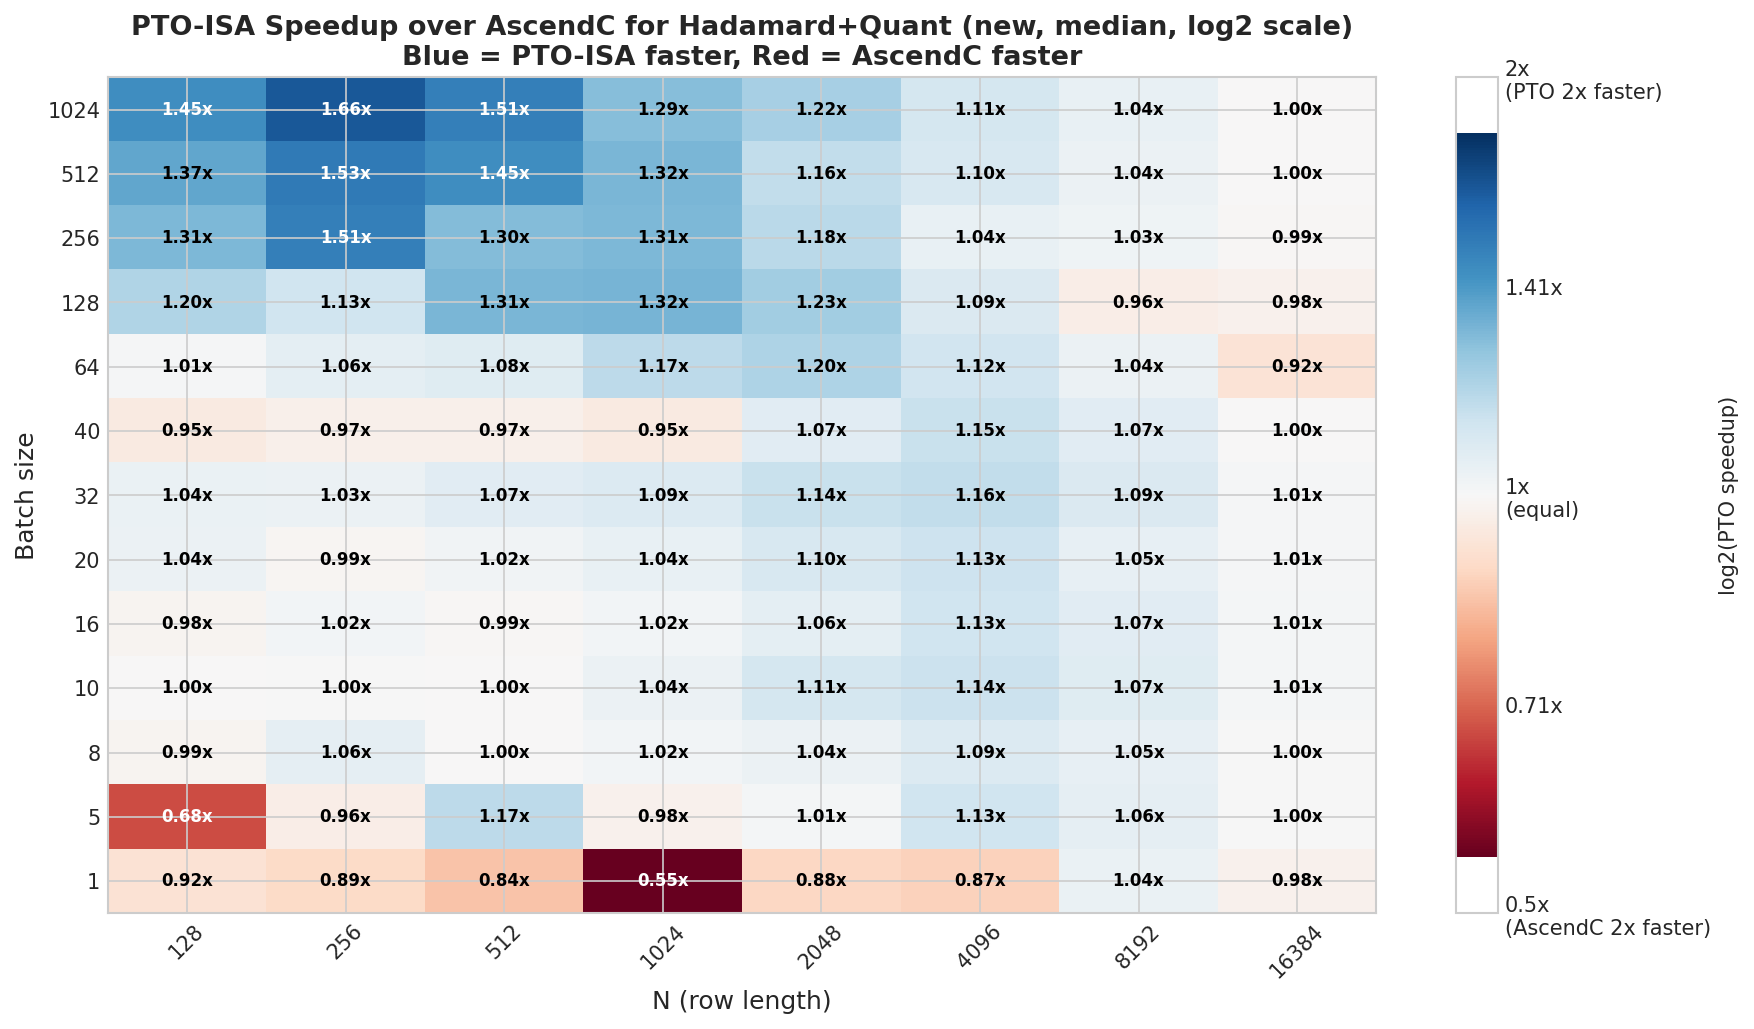
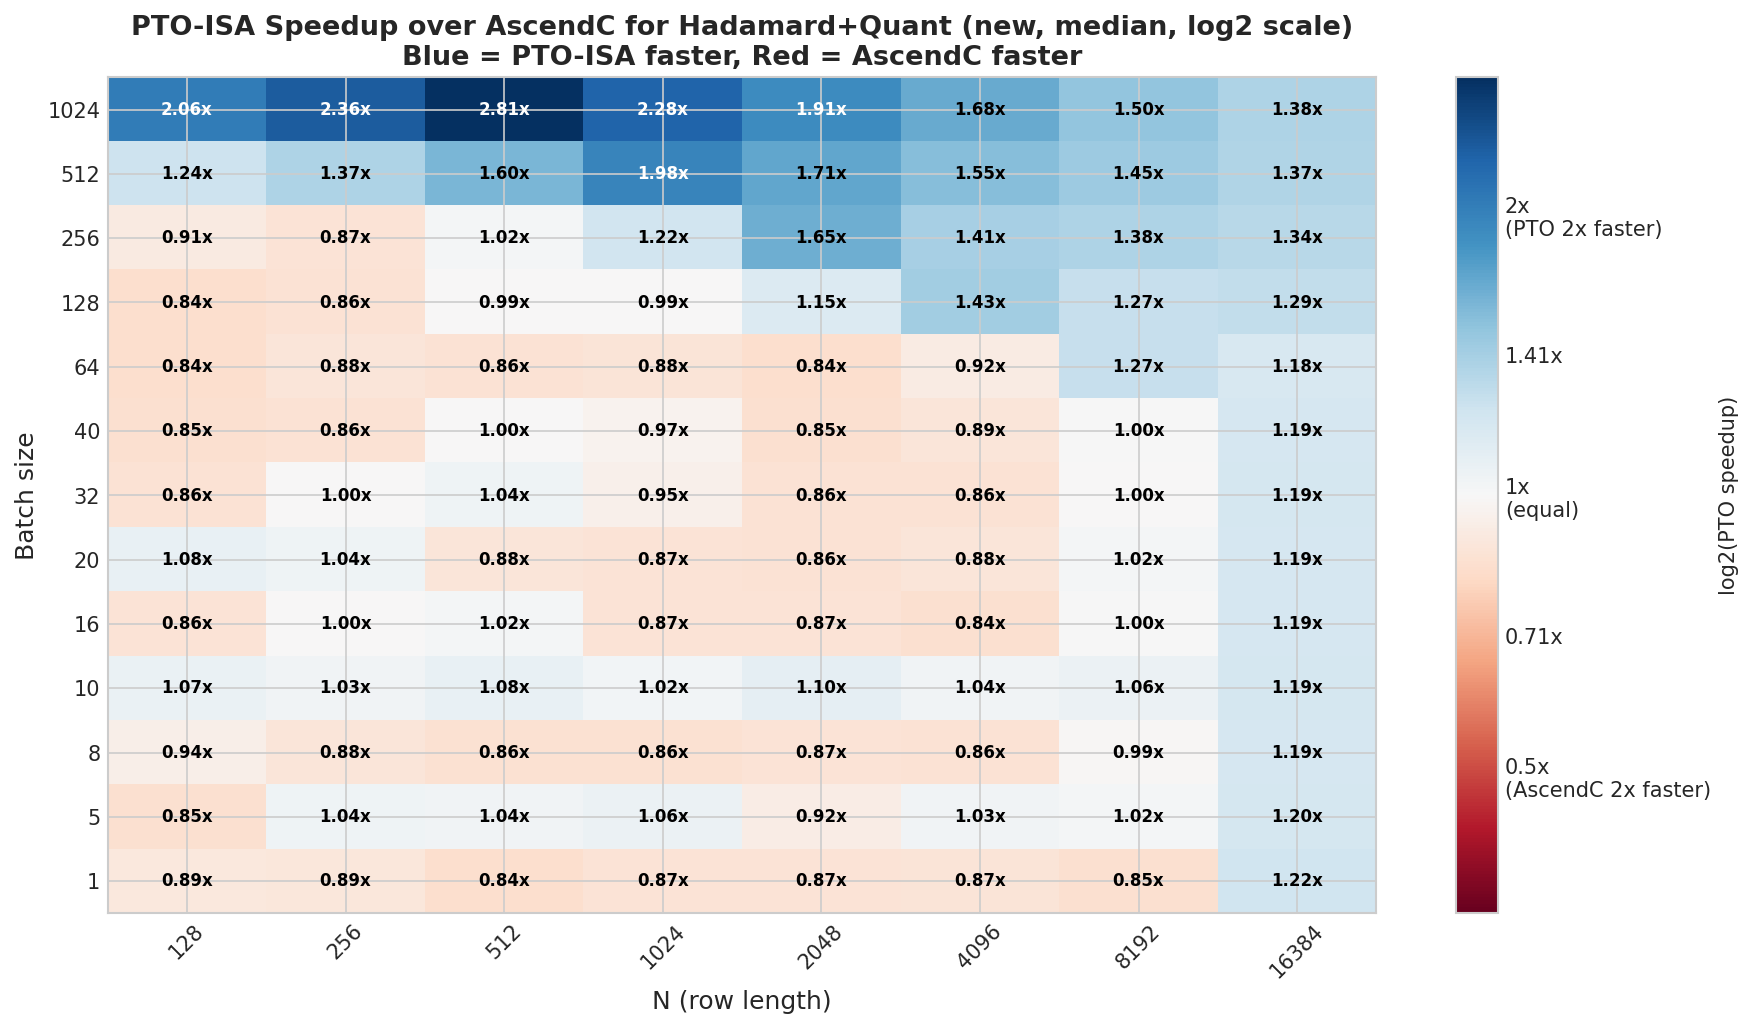
Add new heatmap plots and update README for Hadamard kernel performance

diff --git a/fast_hadamard/int8_quant/README.md b/fast_hadamard/int8_quant/README.md
@@ -35,6 +35,8 @@ Median PTO-ISA speedup over AscendC for the fused Hadamard + INT8 quantization k
 
 ---
 
+---
+
 ### `hadamard_quant_speedup_vs_separate_bd20.png`
 
 ![Fused PTO Speedup over Separate PTO (BLOCK_DIM=20)](hadamard_quant_speedup_vs_separate_bd20.png)
@@ -93,3 +95,30 @@ median over trials.
   N values, suggesting AscendC is marginally better tuned there.
 - The standalone quantize step does not benefit meaningfully from PTO-ISA on its own;
   the speedup from the fused kernel comes from combining it with the Hadamard pass.
+
+---
+
+### `hadamard_quant_old_vs_new_heatmap.png`
+
+![New PTO vs Old PTO for Hadamard+Quant](hadamard_quant_old_vs_new_heatmap.png)
+
+Speedup of the **new** PTO-ISA fused Hadamard+Quant kernel over the **old** PTO-ISA
+version (log2 scale). Only the Hadamard transform portion was updated; the quantization
+path is unchanged. Blue = new faster (better), red = old faster (worse).
+
+**What the plot shows:**
+
+- At **small batch sizes (1–64)**, performance is essentially unchanged: speedup
+  hovers around **1.0x** across all N values. The new Hadamard implementation does not
+  regress for lightweight workloads.
+- At **large batch sizes (128–1024)**, the new kernel delivers a clear and consistent
+  speedup. The advantage grows with batch, reaching an average of roughly **~1.3x**
+  for batch ≥ 256 and peaking at **1.85x** (batch=1024, N=512).
+- The speedup is most pronounced at **small-to-moderate N (128–2048)** combined with
+  large batch, where the new batched Hadamard template processes multiple rows per
+  tile load — exactly the regime where the old per-row fallback was least efficient.
+- At **N=16384**, the new kernel is consistently **1.2–1.4x** faster across all batch
+  sizes, reflecting improved instruction scheduling even at the largest row widths.
+- A handful of cells show slight regressions (0.85–0.95x) at batch=256 with small N,
+  likely due to tile size and alignment trade-offs in the UB layout. These are minor
+  compared to the gains elsewhere.
